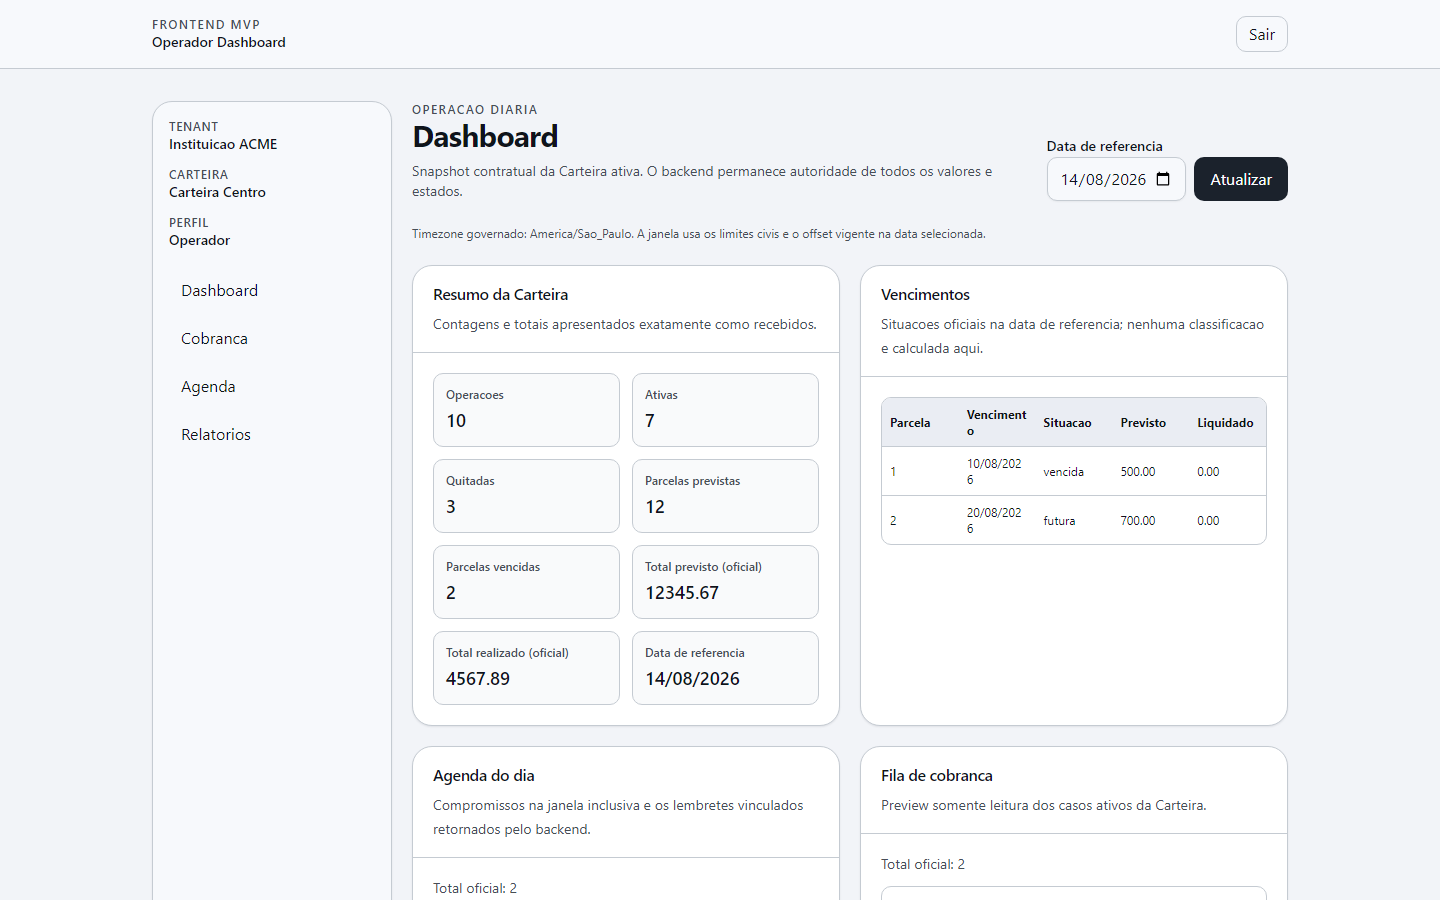
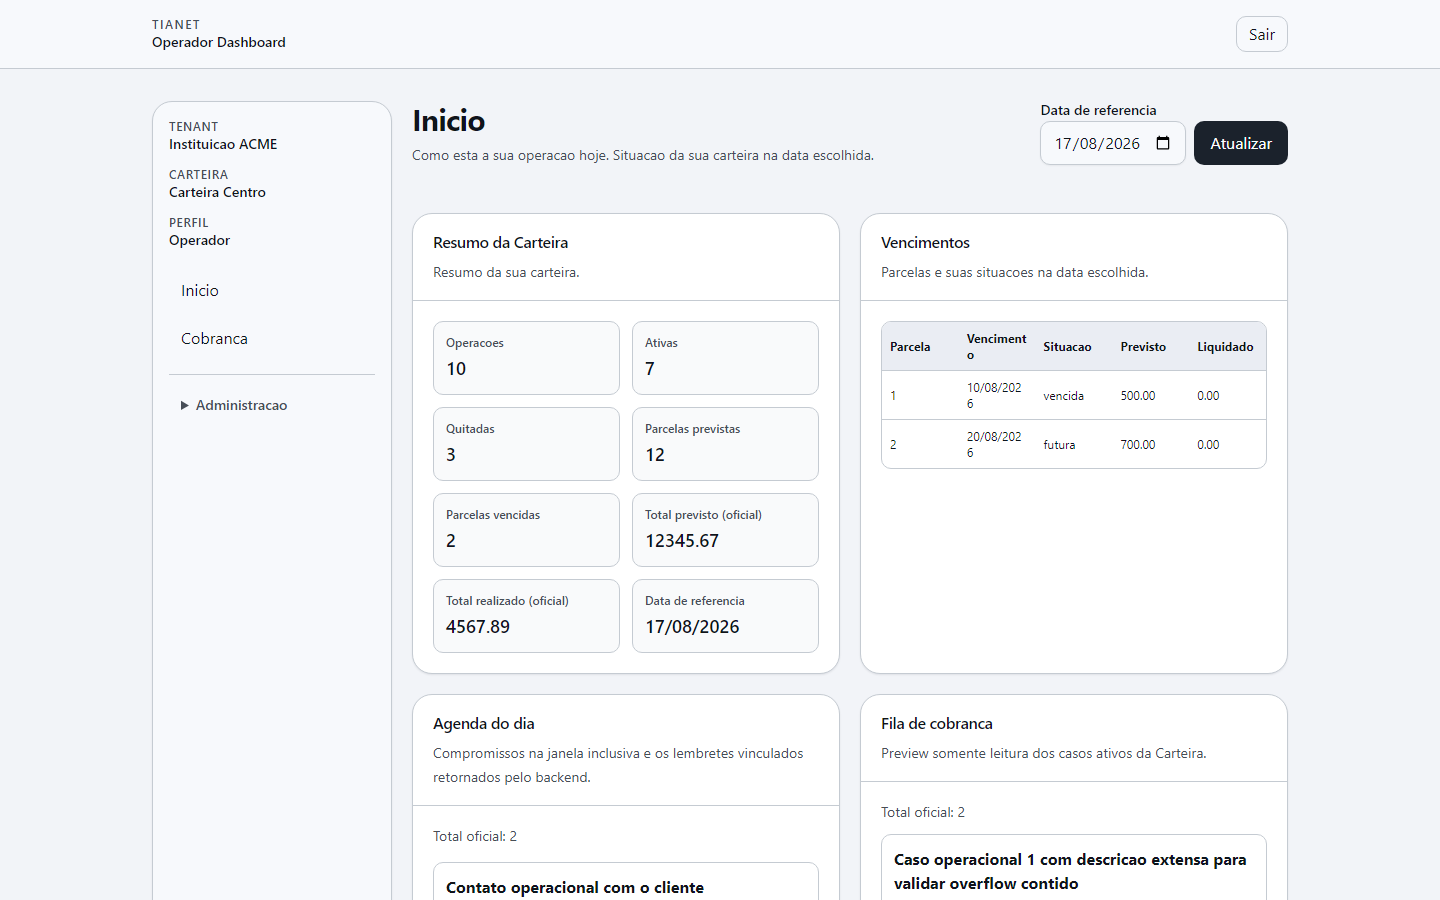
feat(frontend): menu em dois grupos e identidade TiaNet (IMP-318)
Fecha o PLAN-029.

O menu tinha 11 itens. Cinco ficam a vista — Inicio, Novo emprestimo,
Devedores, Emprestimos e Cobranca —, que e o trabalho que o Credor
descreveu: emprestar, ver quem deve, receber. Os outros sete vao para
"Administracao", recolhido.

Nada foi removido, e os testes provam: o de componente afirma que o
destino administrativo continua presente com o mesmo href, e o de unidade
afirma que a soma dos dois grupos e igual ao conjunto de destinos
permitidos. Esconder nao e apagar — essas telas sao EPICs certificados.

"Motor" virou "Emprestimos" e "Dashboard" virou "Inicio", no menu e no
titulo da pagina: "Dashboard" e palavra de quem constroi o sistema.
"Comercial" apontava para a mesma rota de "Devedores" com outro nome, o
que so podia confundir; foi para Administracao. O cabecalho dizia
"Frontend MVP" e passa a dizer TiaNet.

O gate fixava `label: "Dashboard"`, com uma mutacao protegendo a linha.
Os dois foram atualizados para o rotulo novo, e entrou uma asserção
exigindo o campo `grupo`. O que o gate protege continua igual: a
navegacao nao pode apontar para rota que nao existe.

Evidencia visual: a mudanca do menu altera toda captura. As tres
instaveis entre execucoes consecutivas — dashboard-states-desktop,
devedor-detail-desktop e pagamento-flow-mobile — foram restauradas dos
bytes versionados em vez de fixar ruido; as outras oito foram conferidas
estaveis e repinadas nos tres relatorios.

diff --git a/frontend/src/lib/shell/navigation-policy.ts b/frontend/src/lib/shell/navigation-policy.ts
@@ -1,4 +1,15 @@
+/**
+ * Onde o destino aparece no menu.
+ *
+ * "principal" e o que o Credor faz: emprestar, ver quem deve, receber.
+ * "administracao" e o resto — telas que existem, sao alcancaveis e continuam
+ * certificadas, mas nao sao tarefa de todo dia. Nenhuma rota e removida; o que
+ * muda e o que ocupa a primeira vista.
+ */
+export type NavigationGroup = "principal" | "administracao";
+
 export type NavigationDestination = Readonly<{
+  grupo: NavigationGroup;
   href: string;
   label: string;
   requiredPermission?: string;
@@ -9,11 +20,13 @@ export type NavigationDestination = Readonly<{
 
 export const SHELL_NAVIGATION: readonly NavigationDestination[] = [
   {
+    grupo: "principal",
     href: "/app",
-    label: "Dashboard",
+    label: "Inicio",
     requiredAnyPermission: ["relatorios.operacionais.ler", "agenda.ler", "cobranca.caso.ler"],
   },
   {
+    grupo: "principal",
     href: "/app/lancamentos",
     label: "Novo emprestimo",
     requiredAllPermissions: [
@@ -24,16 +37,19 @@ export const SHELL_NAVIGATION: readonly NavigationDestination[] = [
     ],
   },
   {
+    grupo: "principal",
     href: "/app/devedores",
     label: "Devedores",
     requiredPermission: "devedor.ler",
   },
   {
+    grupo: "administracao",
     href: "/app/devedores",
     label: "Comercial",
     requiredAnyPermission: ["comercial.proposta.ler", "comercial.simulacao.criar", "comercial.proposta.criar"],
   },
   {
+    grupo: "administracao",
     href: "/app/contratos",
     label: "Contratos",
     requiredAnyPermission: [
@@ -45,8 +61,9 @@ export const SHELL_NAVIGATION: readonly NavigationDestination[] = [
     ],
   },
   {
+    grupo: "principal",
     href: "/app/motor",
-    label: "Motor",
+    label: "Emprestimos",
     requiredAnyPermission: [
       "motor.emprestimo.criar",
       "motor.emprestimo.ler",
@@ -60,6 +77,7 @@ export const SHELL_NAVIGATION: readonly NavigationDestination[] = [
     ],
   },
   {
+    grupo: "principal",
     href: "/app/cobranca",
     label: "Cobranca",
     requiredAnyPermission: [
@@ -70,6 +88,7 @@ export const SHELL_NAVIGATION: readonly NavigationDestination[] = [
     ],
   },
   {
+    grupo: "administracao",
     href: "/app/agenda",
     label: "Agenda",
     requiredAnyPermission: [
@@ -82,11 +101,13 @@ export const SHELL_NAVIGATION: readonly NavigationDestination[] = [
     ],
   },
   {
+    grupo: "administracao",
     href: "/app/relatorios",
     label: "Relatorios",
     requiredPermission: "relatorios.operacionais.ler",
   },
   {
+    grupo: "administracao",
     href: "/app/configuracoes-financeiras",
     label: "Configuracoes",
     requiredAnyPermission: [
@@ -100,11 +121,13 @@ export const SHELL_NAVIGATION: readonly NavigationDestination[] = [
     ],
   },
   {
+    grupo: "administracao",
     href: "/app/iam",
     label: "IAM",
     requiredAnyPermission: ["perfil.ler", "perfil.gerir"],
   },
   {
+    grupo: "administracao",
     href: "/app/automacao",
     label: "Automacao",
     requiredAnyPermission: [
@@ -117,6 +140,13 @@ export const SHELL_NAVIGATION: readonly NavigationDestination[] = [
     ],
   },
 ];
+
+export function navigationByGroup(
+  destinations: readonly NavigationDestination[],
+  grupo: NavigationGroup,
+): readonly NavigationDestination[] {
+  return destinations.filter((destination) => destination.grupo === grupo);
+}
 
 export function visibleNavigationItems(
   destinations: readonly NavigationDestination[],

diff --git a/frontend/tests/unit/navigation-policy.test.ts b/frontend/tests/unit/navigation-policy.test.ts
@@ -1,12 +1,12 @@
 import { describe, expect, it } from "vitest";
 
-import { visibleNavigationItems, type NavigationDestination } from "../../src/lib/shell/navigation-policy";
+import { navigationByGroup, visibleNavigationItems, type NavigationDestination } from "../../src/lib/shell/navigation-policy";
 
 const destinations: readonly NavigationDestination[] = [
-  { href: "/app", label: "Inicio" },
-  { href: "/alpha", label: "Alpha", requiredPermission: "permission.alpha" },
-  { href: "/beta", label: "Beta", requiredPermission: "permission.beta" },
-  { href: "/dashboard", label: "Dashboard", requiredAnyPermission: ["report.read", "agenda.read"] },
+  { grupo: "principal", href: "/app", label: "Inicio" },
+  { grupo: "principal", href: "/alpha", label: "Alpha", requiredPermission: "permission.alpha" },
+  { grupo: "administracao", href: "/beta", label: "Beta", requiredPermission: "permission.beta" },
+  { grupo: "administracao", href: "/dashboard", label: "Dashboard", requiredAnyPermission: ["report.read", "agenda.read"] },
 ];
 
 describe("politica de navegacao", () => {
@@ -73,5 +73,14 @@ describe("politica de navegacao", () => {
     expect(visibleNavigationItems(SHELL_NAVIGATION, ["automacao.job.consultar"]).map((item) => item.href)).toContain("/app/automacao");
     expect(visibleNavigationItems(SHELL_NAVIGATION, ["notificacao.template.gerir"]).map((item) => item.href)).toContain("/app/automacao");
     expect(visibleNavigationItems(SHELL_NAVIGATION, ["automacao.*", "notificacao"]).map((item) => item.href)).not.toContain("/app/automacao");
+  });
+
+  it("separa o dia a dia da administracao sem esconder destino permitido", () => {
+    const permitidos = visibleNavigationItems(destinations, ["permission.alpha", "permission.beta"]);
+    // Agrupar e so ordenar a vista: a soma dos dois grupos e o conjunto inteiro.
+    expect(navigationByGroup(permitidos, "principal").map((item) => item.href)).toEqual(["/app", "/alpha"]);
+    expect(navigationByGroup(permitidos, "administracao").map((item) => item.href)).toEqual(["/beta"]);
+    expect(navigationByGroup(permitidos, "principal").length + navigationByGroup(permitidos, "administracao").length)
+      .toBe(permitidos.length);
   });
 });

diff --git a/frontend/src/components/shell/navigation.tsx b/frontend/src/components/shell/navigation.tsx
@@ -1,21 +1,44 @@
 import Link from "next/link";
 
-import type { NavigationDestination } from "../../lib/shell/navigation-policy";
+import { navigationByGroup, type NavigationDestination } from "../../lib/shell/navigation-policy";
 
 type NavigationProps = Readonly<{ items: readonly NavigationDestination[] }>;
 
+function Lista({ items }: NavigationProps) {
+  return (
+    <ul className="grid gap-1">
+      {items.map((item) => (
+        <li key={`${item.grupo}-${item.href}-${item.label}`}>
+          <Link className="block min-h-(--size-control) rounded-md px-3 py-2 text-sm font-semibold hover:bg-muted" href={item.href}>
+            {item.label}
+          </Link>
+        </li>
+      ))}
+    </ul>
+  );
+}
+
+/**
+ * Menu em dois grupos.
+ *
+ * O dia a dia do Credor fica sempre a vista; o restante existe, continua
+ * alcancavel e mantem a permissao, porem recolhido. Nenhum destino foi
+ * removido — o que muda e quanto do sistema disputa a primeira olhada.
+ */
 export function Navigation({ items }: NavigationProps) {
+  const principal = navigationByGroup(items, "principal");
+  const administracao = navigationByGroup(items, "administracao");
   return (
     <nav aria-label="Navegacao principal">
-      <ul className="grid gap-1">
-        {items.map((item) => (
-          <li key={item.href}>
-            <Link className="block min-h-(--size-control) rounded-md px-3 py-2 text-sm font-semibold hover:bg-muted" href={item.href}>
-              {item.label}
-            </Link>
-          </li>
-        ))}
-      </ul>
+      <Lista items={principal} />
+      {administracao.length > 0 ? (
+        <details className="mt-3 border-t border-border pt-3">
+          <summary className="cursor-pointer px-3 py-2 text-sm font-semibold text-muted-foreground">Administracao</summary>
+          <div className="mt-1">
+            <Lista items={administracao} />
+          </div>
+        </details>
+      ) : null}
     </nav>
   );
 }

diff --git a/scripts/tests/test-plan-025-contracts.js b/scripts/tests/test-plan-025-contracts.js
@@ -1670,7 +1670,12 @@ const contracts = {
     }
     assertText(source.component, 'Correlation ID:', 'falha publica correlation segura');
     assertText(source.component, 'Dados nao encontrados ou indisponiveis.', '404 permanece neutro');
-    assertText(source.navigationPolicy, 'label: "Dashboard"', 'navegacao aponta para Dashboard existente');
+    // O rotulo virou "Inicio" no PLAN-029 IMP-318: "Dashboard" e palavra de
+    // quem constroi o sistema, nao de quem empresta o proprio dinheiro. O que o
+    // gate protege continua sendo o mesmo — a navegacao aponta para a rota que
+    // existe, e nao para uma futura.
+    assertText(source.navigationPolicy, 'label: "Inicio"', 'navegacao aponta para a tela inicial existente');
+    assertText(source.navigationPolicy, 'grupo: "principal"', 'navegacao separa dia a dia de administracao');
     assert.doesNotMatch(source.navigationPolicy, /href:\s*["']\/(?:dashboard|credit)/, 'navegacao nao antecipa rota futura');
     assertText(packageJson.scripts?.['test:dashboard'] ?? '', 'playwright.dashboard.config.ts', 'script Playwright Dashboard dedicado');
     assertText(packageJson.scripts?.['test:harness'] ?? '', 'npm run test:dashboard', 'harness inclui Dashboard');
@@ -3461,7 +3466,7 @@ test('mutacao IMP-289: usar prefixo de Permissao e rejeitado', () => {
 
 test('mutacao IMP-289: antecipar Dashboard na navegacao e rejeitado', () => {
   const source = readShell();
-  const navigationPolicy = source.navigationPolicy.replace('label: "Dashboard",', 'label: "Dashboard",\n  },\n  { href: "/dashboard", label: "Dashboard paralelo"');
+  const navigationPolicy = source.navigationPolicy.replace('label: "Inicio",', 'label: "Inicio",\n  },\n  { grupo: "principal", href: "/dashboard", label: "Dashboard paralelo"');
   assert.notStrictEqual(navigationPolicy, source.navigationPolicy);
   assert.throws(() => contracts.shell({ ...source, navigationPolicy }));
 });

diff --git a/frontend/tests/component/session-shell.test.tsx b/frontend/tests/component/session-shell.test.tsx
@@ -54,9 +54,24 @@ describe("login e shell", () => {
     expect(document.body.textContent).not.toMatch(/access-token|refresh-token|devedores/i);
   });
 
-  it("exibe o destino Dashboard somente com ao menos uma permissao exata", () => {
-    render(<AppShell context={{ ...context, perfil: { id: "perfil-1", nome: "Operador" }, permissoes: ["agenda.ler"] }}><h1>Dashboard</h1></AppShell>);
-    expect(screen.getByRole("link", { name: "Dashboard" })).toHaveAttribute("href", "/app");
+  it("exibe a tela inicial somente com ao menos uma permissao exata", () => {
+    render(<AppShell context={{ ...context, perfil: { id: "perfil-1", nome: "Operador" }, permissoes: ["agenda.ler"] }}><h1>Inicio</h1></AppShell>);
+    expect(screen.getByRole("link", { name: "Inicio" })).toHaveAttribute("href", "/app");
+  });
+
+  it("mantem o dia a dia a vista e recolhe a administracao, sem perder destino", () => {
+    render(
+      <AppShell context={{ ...context, perfil: { id: "perfil-1", nome: "Operador" }, permissoes: ["agenda.ler", "devedor.ler", "perfil.ler"] }}>
+        <h1>Inicio</h1>
+      </AppShell>,
+    );
+    // Dia a dia: sempre visivel.
+    expect(screen.getByRole("link", { name: "Inicio" })).toBeInTheDocument();
+    expect(screen.getByRole("link", { name: "Devedores" })).toBeInTheDocument();
+    // Administracao: recolhida, porem presente — esconder nao e remover, e a
+    // tela continua alcancavel para quem tem a permissao.
+    expect(screen.getByText("Administracao")).toBeInTheDocument();
+    expect(screen.getByRole("link", { name: "IAM" })).toHaveAttribute("href", "/app/iam");
   });
 
   it("remove PII da tela depois que o logout local encerra a sessao mesmo com backend 5xx", async () => {

diff --git a/frontend/src/components/dashboard/dashboard.tsx b/frontend/src/components/dashboard/dashboard.tsx
@@ -183,7 +183,7 @@ export function Dashboard({ period, recoveryHref, summary, dueDates, agenda, col
   return (
     <div className="grid min-w-0 gap-6">
       <header className="flex flex-col gap-4 lg:flex-row lg:items-end lg:justify-between">
-        <div><p className="text-xs font-semibold uppercase tracking-[0.12em] text-muted-foreground">Operacao diaria</p><h1 className="text-balance text-3xl font-bold tracking-tight">Dashboard</h1><p className="mt-2 max-w-3xl text-sm text-muted-foreground">Como esta a sua operacao hoje. Situacao da sua carteira na data escolhida.</p></div>
+        <div><h1 className="text-balance text-3xl font-bold tracking-tight">Inicio</h1><p className="mt-2 max-w-3xl text-sm text-muted-foreground">Como esta a sua operacao hoje. Situacao da sua carteira na data escolhida.</p></div>
         <form className="flex flex-col gap-2 sm:flex-row sm:items-end" method="get">
           <div className="grid gap-1"><Label htmlFor="data_referencia">Data de referencia</Label><Input autoComplete="off" defaultValue={period.referenceDate} id="data_referencia" max={MAX_REFERENCE_DATE} min={MIN_REFERENCE_DATE} name="data_referencia" required type="date" /></div>
           <button className="min-h-(--size-control) rounded-md bg-primary px-4 py-2 text-sm font-semibold text-primary-foreground transition-colors hover:bg-primary/90" type="submit">Atualizar</button>

diff --git a/frontend/tests/dashboard-e2e/dashboard-a11y.spec.ts b/frontend/tests/dashboard-e2e/dashboard-a11y.spec.ts
@@ -9,12 +9,12 @@ test("Dashboard passa por axe, teclado e overflow nos dois viewports", async ({ 
   await page.getByRole("textbox", { name: "E-mail" }).fill("operador@example.test");
   await page.getByLabel("Senha").fill("segredo-dashboard");
   await page.getByRole("button", { name: "Entrar" }).click();
-  await expect(page.getByRole("heading", { name: "Dashboard" })).toBeVisible();
+  await expect(page.getByRole("heading", { name: "Inicio" })).toBeVisible();
   const results = await new AxeBuilder({ page }).analyze();
   expect(results.violations.filter((violation) => violation.impact === "critical" || violation.impact === "serious")).toEqual([]);
   expect(results.incomplete.filter((item) => item.id === "color-contrast")).toEqual([]);
   await page.reload();
-  await expect(page.getByRole("heading", { name: "Dashboard" })).toBeVisible();
+  await expect(page.getByRole("heading", { name: "Inicio" })).toBeVisible();
   await page.keyboard.press("Tab");
   await expect(page.getByRole("link", { name: "Pular para o conteudo" })).toBeFocused();
   await page.getByRole("region", { name: "Fila de cobranca" }).focus();

diff --git a/frontend/tests/motor-e2e/motor.spec.ts b/frontend/tests/motor-e2e/motor.spec.ts
@@ -67,7 +67,7 @@ test("lista Emprestimos e cria Emprestimo a partir de Contrato liberado sem Cart
   await login(page);
   await page.goto(`/app/motor?contrato_id=${IDS.contract}&tenant_id=hostil&carteira_id=hostil`);
   await expect(page.getByRole("heading", { name: "Meus emprestimos" })).toBeVisible();
-  await expect(page.getByRole("link", { exact: true, name: "Motor" })).toHaveAttribute("href", "/app/motor");
+  await expect(page.getByRole("link", { exact: true, name: "Emprestimos" })).toHaveAttribute("href", "/app/motor");
   // O caminho principal de lancar e o wizard. A criacao por Contrato continua
   // possivel, mas recolhida: precisa ser aberta de proposito.
   await expect(page.getByLabel("Contrato liberado")).toBeHidden();

diff --git a/frontend/tests/session-e2e/session-shell.spec.ts b/frontend/tests/session-e2e/session-shell.spec.ts
@@ -27,7 +27,7 @@ test("login, contexto proprio e logout nao expõem tokens ao browser", async ({ 
   page.on("request", (request) => browserRequests.push(request.url()));
   await login(page);
   await expect(page).toHaveURL(/\/app\?data_referencia=\d{4}-\d{2}-\d{2}$/);
-  await expect(page.getByRole("heading", { name: "Dashboard" })).toBeVisible();
+  await expect(page.getByRole("heading", { name: "Inicio" })).toBeVisible();
   await expect(page.getByText("Instituicao ACME")).toBeVisible();
   await expect(page.getByText("Carteira Centro")).toBeVisible();
   await expect(page.getByRole("navigation", { name: "Navegacao principal" }).getByRole("link", { name: "Devedores" })).toHaveAttribute("href", "/app/devedores");

diff --git a/frontend/src/components/shell/app-shell.tsx b/frontend/src/components/shell/app-shell.tsx
@@ -16,7 +16,7 @@ export function AppShell({ children, context }: AppShellProps) {
       <header className="border-b border-border bg-background">
         <div className="mx-auto flex w-full max-w-(--size-content) items-center justify-between gap-4 px-5 py-4 sm:px-8 lg:px-10">
           <div className="min-w-0">
-            <p className="text-xs font-semibold uppercase tracking-[0.12em] text-muted-foreground">Frontend MVP</p>
+            <p className="text-xs font-semibold uppercase tracking-[0.12em] text-muted-foreground">TiaNet</p>
             <p className="truncate text-sm font-medium" title={context.usuario.email}>{context.usuario.nome}</p>
           </div>
           <LogoutButton />

diff --git a/frontend/tests/dashboard-e2e/dashboard.spec.ts b/frontend/tests/dashboard-e2e/dashboard.spec.ts
@@ -26,7 +26,7 @@ test("login compoe o Dashboard completo sem expor token ou backend ao browser", 
   page.on("request", (request) => requests.push(request.url()));
   await login(page);
   await expect(page).toHaveURL(/\/app\?data_referencia=\d{4}-\d{2}-\d{2}$/);
-  await expect(page.getByRole("heading", { name: "Dashboard" })).toBeVisible();
+  await expect(page.getByRole("heading", { name: "Inicio" })).toBeVisible();
   await expect(page.getByText("12345.67")).toBeVisible();
   await expect(page.locator("dd:visible, td:visible").filter({ hasText: /^vencida$/ }).first()).toBeVisible();
   await expect(page.getByText("Contato operacional com o cliente")).toBeVisible();

diff --git a/frontend/src/app/app/page.tsx b/frontend/src/app/app/page.tsx
@@ -18,7 +18,7 @@ export default async function AppHomePage({ searchParams }: PageProps<"/app">) {
   const decision = resolveDashboardPeriod(query.data_referencia);
   if (decision.kind === "canonical") redirect(`/app?data_referencia=${decision.referenceDate}`);
   if (decision.kind === "invalid") {
-    return <div className="grid gap-5"><h1 className="text-3xl font-bold tracking-tight">Dashboard</h1><InvalidPeriodState /></div>;
+    return <div className="grid gap-5"><h1 className="text-3xl font-bold tracking-tight">Inicio</h1><InvalidPeriodState /></div>;
   }
   const cookieStore = await cookies();
   const dependencies = createRuntimeDependencies();
